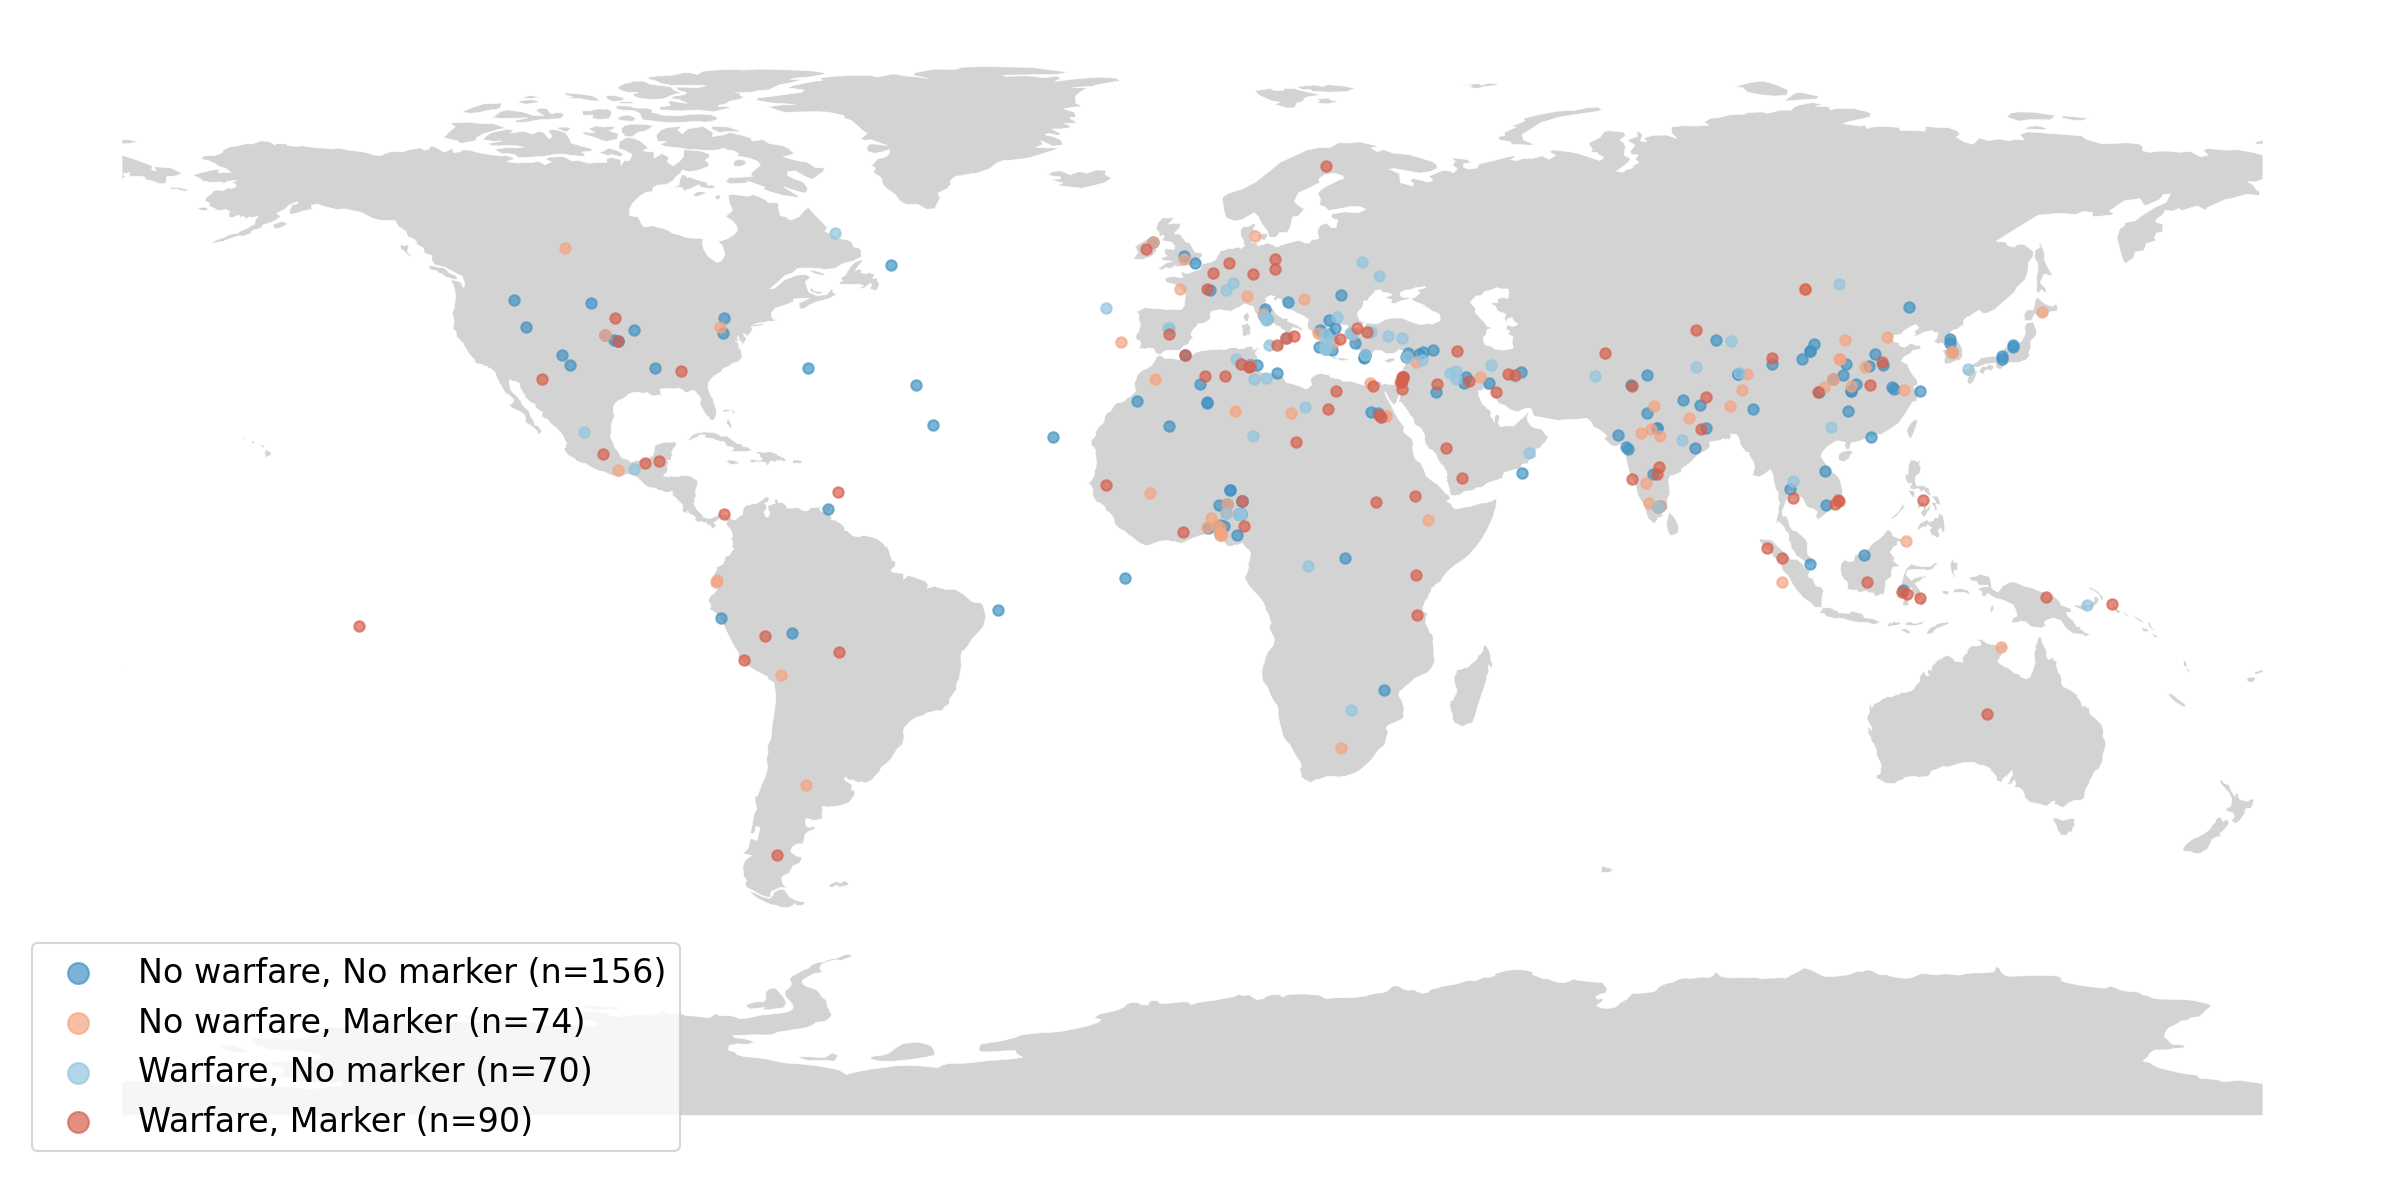
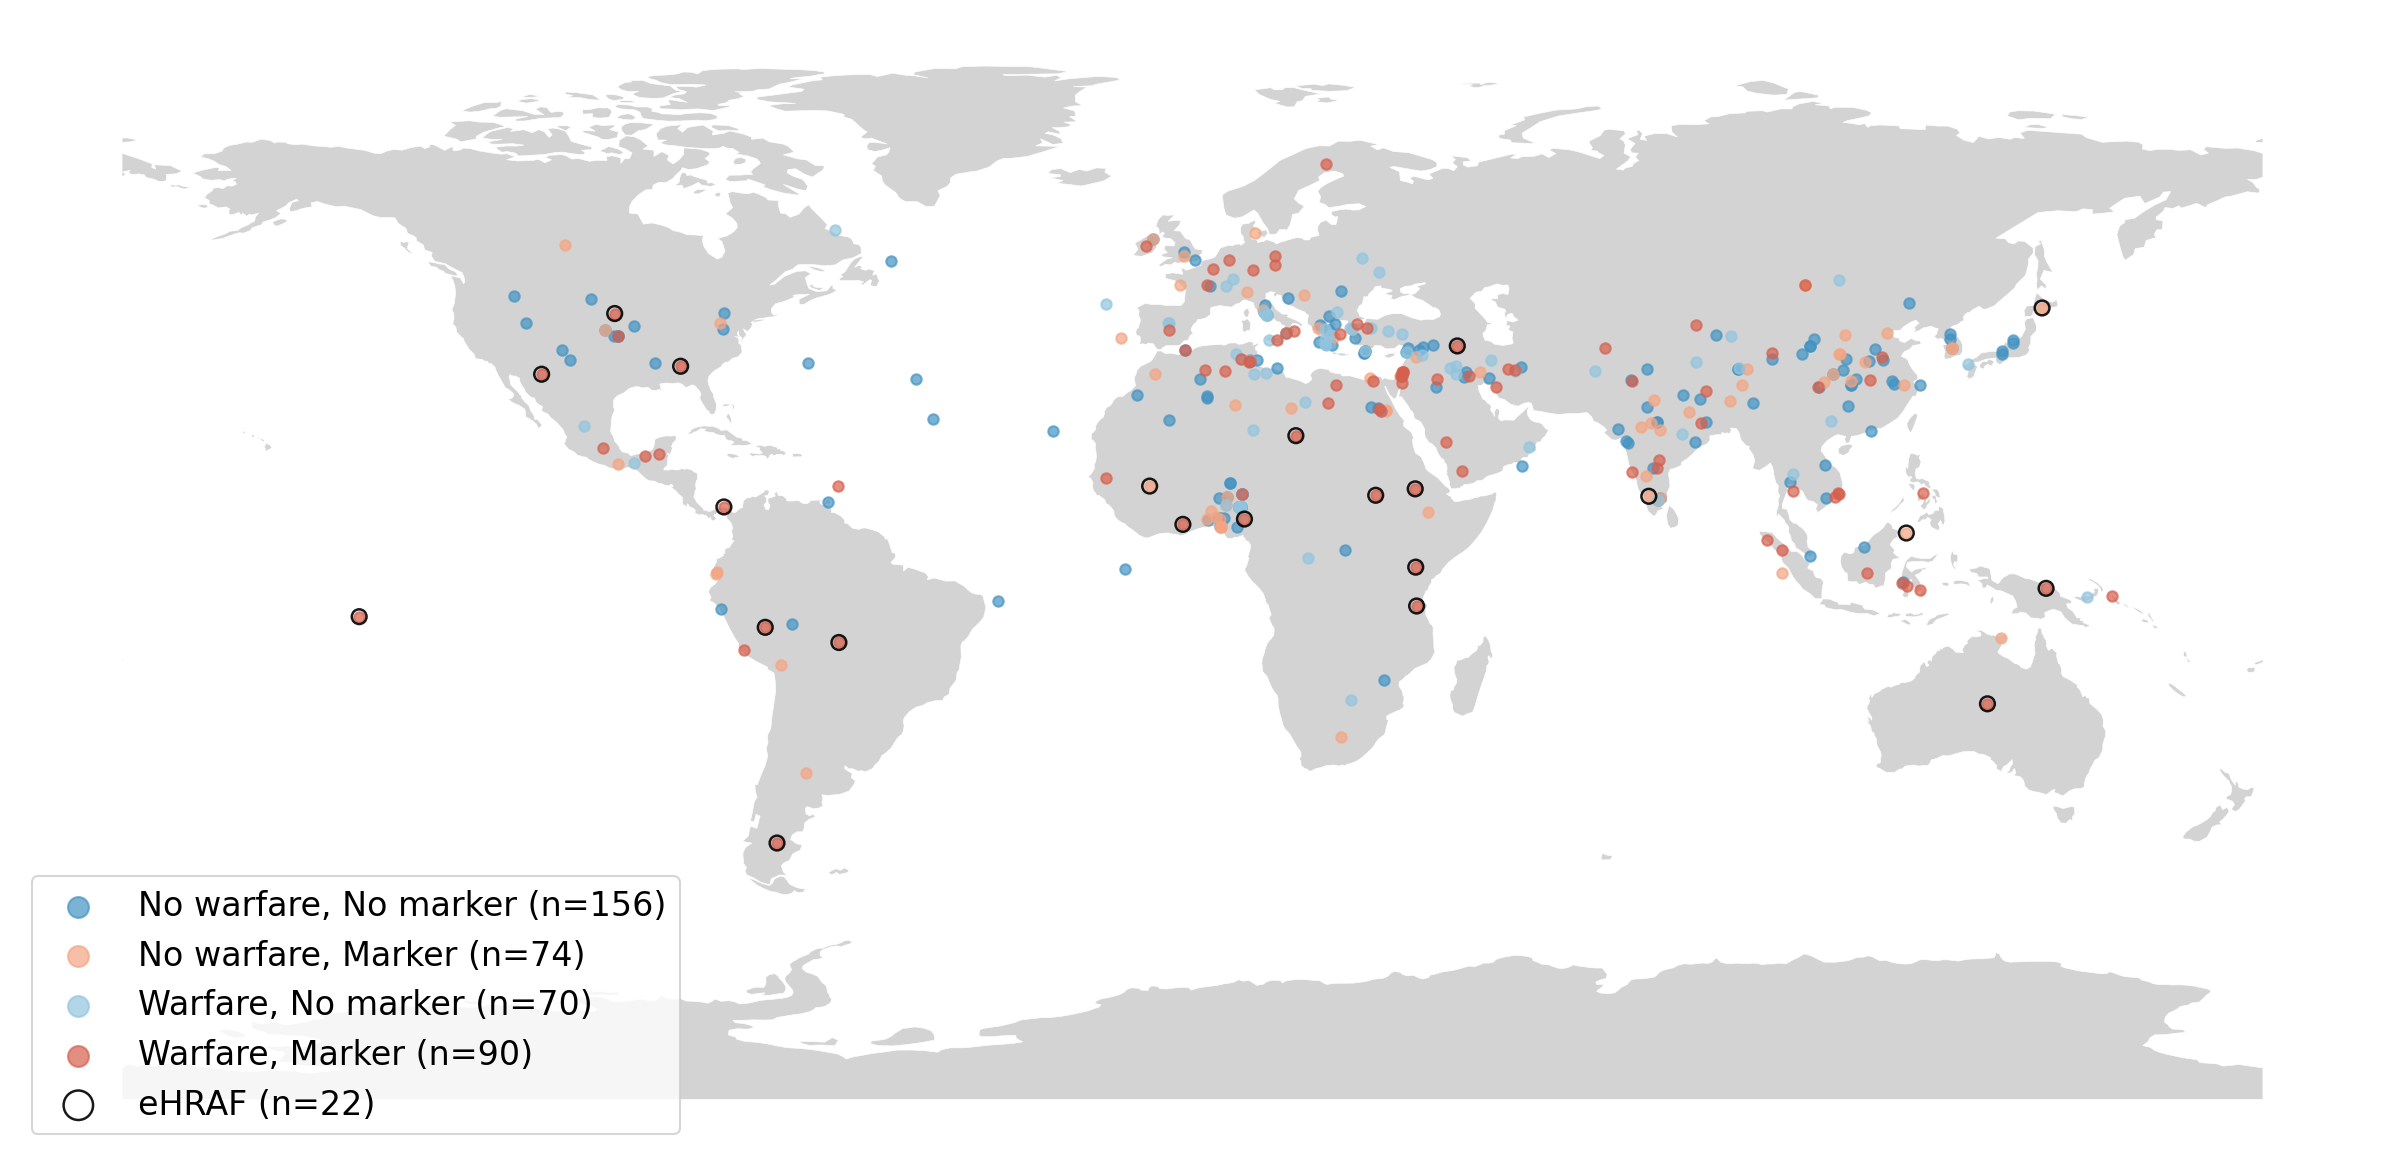
annotate eHRAF on the maps

Changed region(s): [[0.031, 0.741, 0.2792, 0.9571]]

diff --git a/EDA/map_entries.py b/EDA/map_entries.py
@@ -30,7 +30,9 @@ regions = pd.read_csv("../data/raw/region_data.csv")[["region_id", "gis_region"]
 regions = gpd.GeoDataFrame(regions, geometry=gpd.GeoSeries.from_wkt(regions["gis_region"]), crs="EPSG:4326")
 regions["centroid"] = regions.geometry.centroid
 
-entry_region = pd.read_csv("../data/raw/entry_data.csv")[["entry_id", "region_id"]]
+entry_data = pd.read_csv("../data/raw/entry_data.csv")[["entry_id", "region_id", "data_source"]]
+entry_data["is_ehraf"] = entry_data["data_source"] == "eHRAF"
+entry_region = entry_data[["entry_id", "region_id", "is_ehraf"]]
 
 world = gpd.read_file(get_path("naturalearth.land"))
 
@@ -55,6 +57,11 @@ for marker in MARKERS:
         subset = df[df["group"] == label]
         subset.plot(ax=ax, color=color, markersize=25, alpha=0.7,
                     label=f"{label} (n={len(subset)})", marker="o")
+
+    ehraf = df[df["is_ehraf"] == True]
+    if len(ehraf):
+        ehraf.plot(ax=ax, facecolor="none", edgecolor="black", linewidth=1.2,
+                   markersize=50, alpha=0.9, marker="o", label=f"eHRAF (n={len(ehraf)})")
 
     ax.legend(loc="lower left", fontsize=16, markerscale=2.0, framealpha=0.8)
     ax.set_axis_off()

diff --git a/preprocessing/2_language_map.py b/preprocessing/2_language_map.py
@@ -72,5 +72,3 @@ entry_tip = (
 
 # ── 6. Save ────────────────────────────────────────────────────────────────────
 entry_tip.to_csv("../data/preprocessed/tip_map.csv", index=False)
-
-drh_tags[drh_tags['entry_id']==1013]
